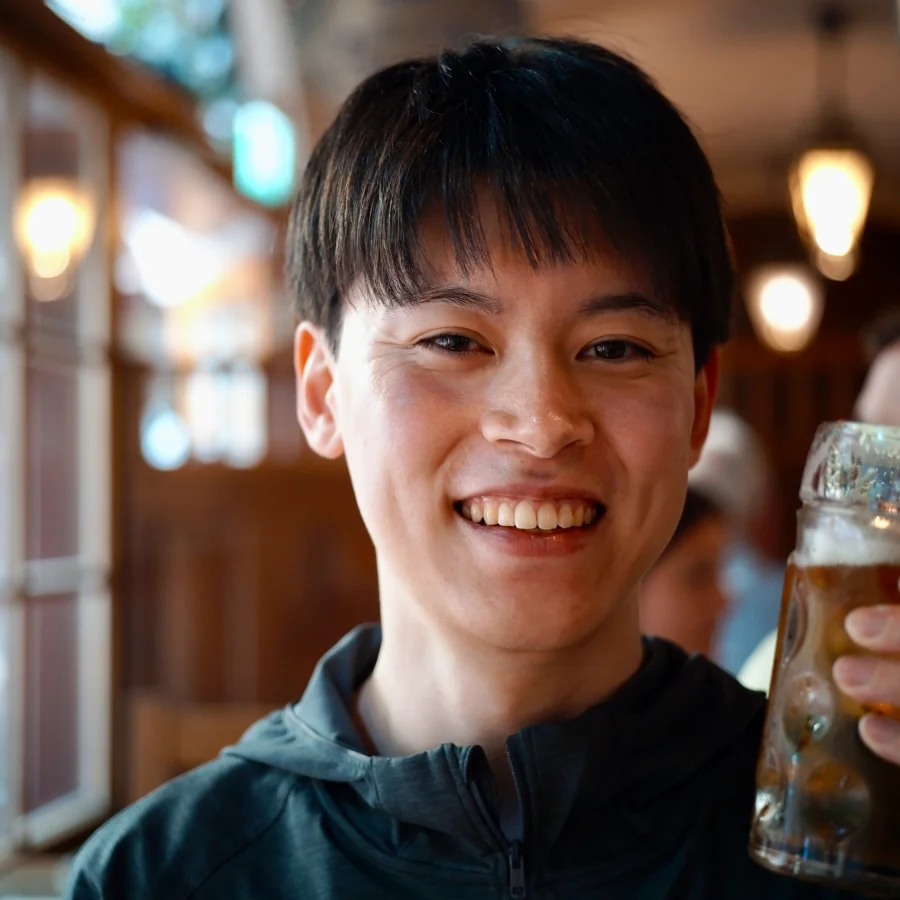
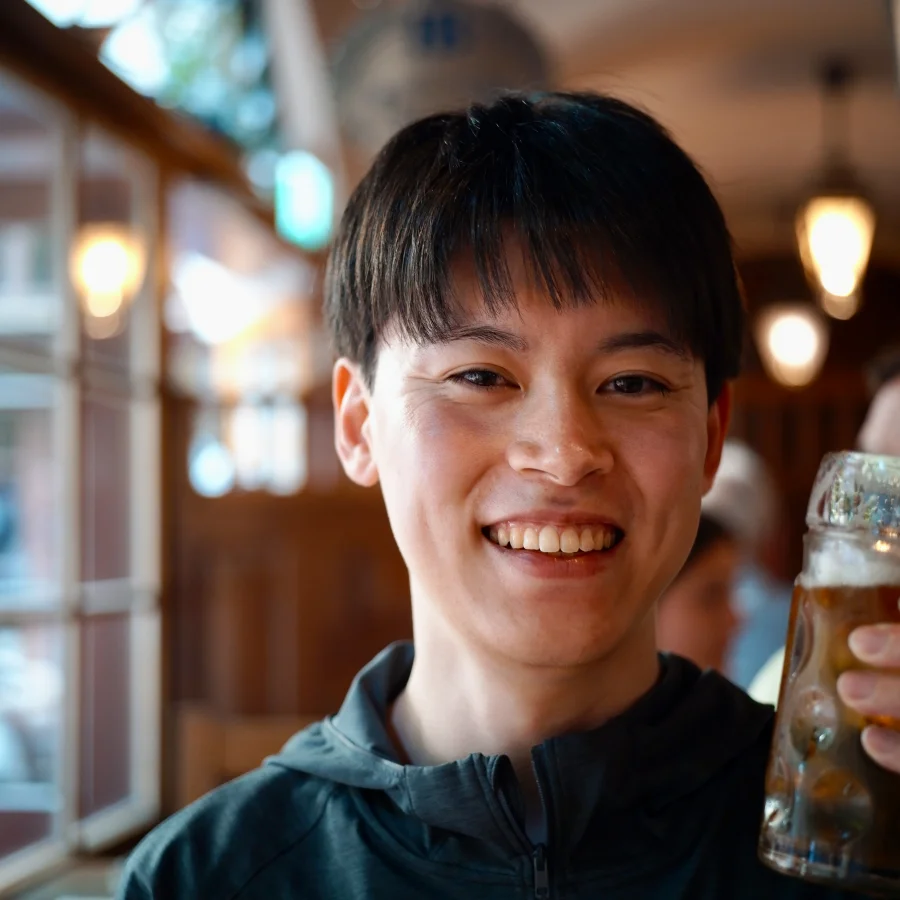
メンバー: 菊地さんの写真を切り抜かずに使い、スマホ表示の位置を教員写真に揃える

diff --git a/src/styles/global.css b/src/styles/global.css
@@ -265,7 +265,7 @@ footer { margin: 0 var(--edge); padding: var(--space-6) 0; border-top: var(--rul
  .faculty-profile h3 small { font-size: var(--text-small); }
  .student-section,.alumni-section,.location-section,.directions-section { padding-top: var(--space-5); }
  .student { grid-template-columns: 1fr; gap: var(--space-4); min-height: 0; }
- .student-name { gap: var(--space-4); }
+ .student-name { align-items: start; }
  .student-name img { width: 120px; height: 120px; }
  .alumni-year { grid-template-columns: 56px minmax(0,1fr); gap: var(--space-4); }
  .alumni-year ul { grid-template-columns: 1fr; }
